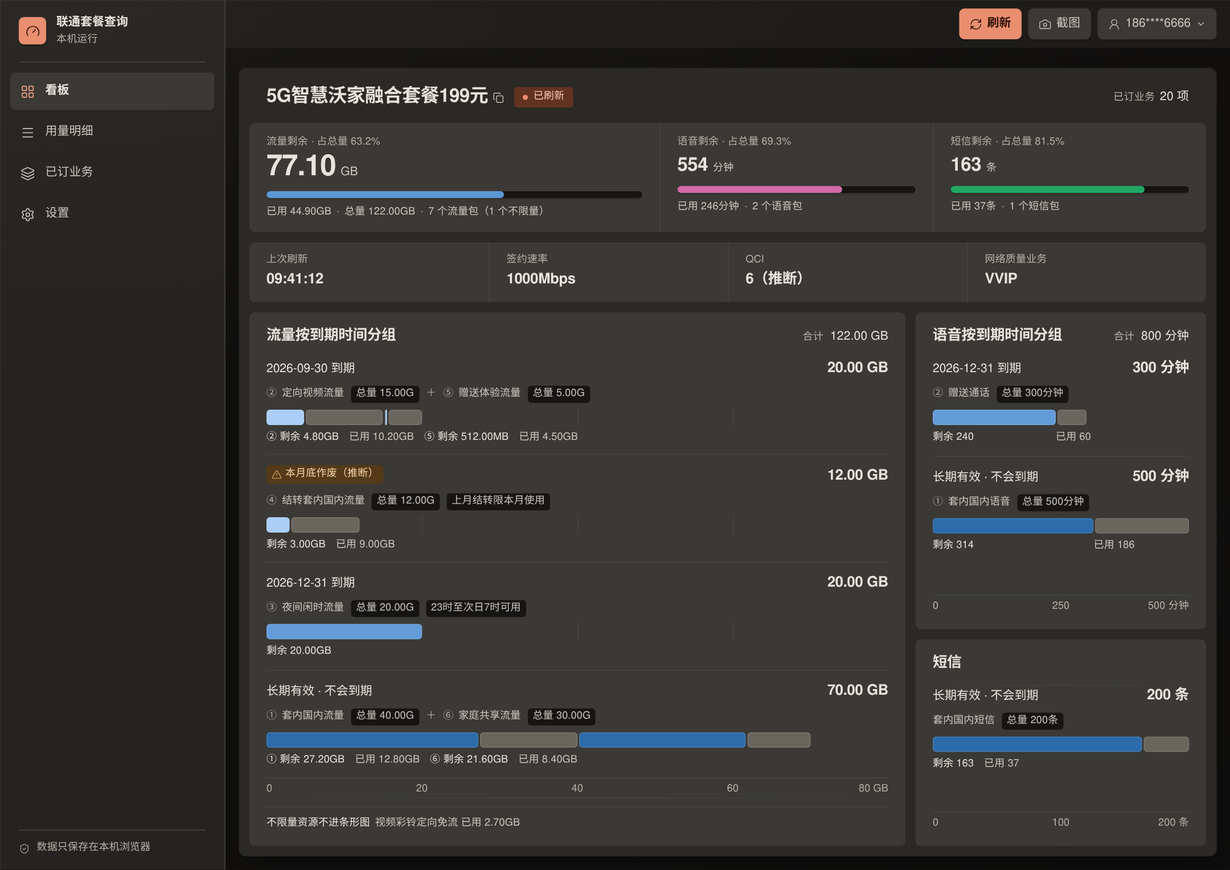
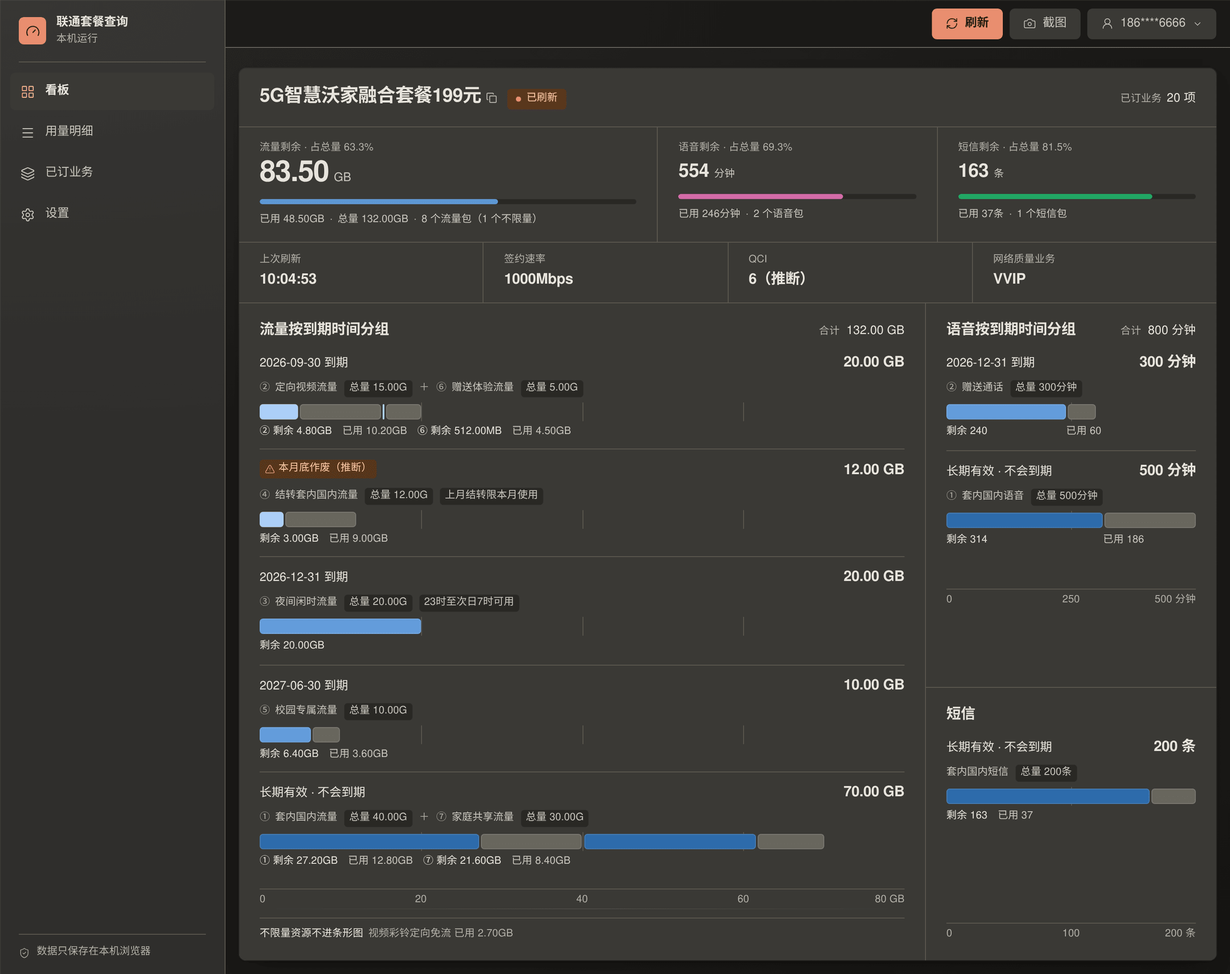
docs: rewrite the hero and re-verify the documentation
Replace the hero collage — a light desktop shot butted against a dark
phone — with a composed 1600×700 banner: brand block on the left, three
stepped browser windows on the right bleeding off the frame, occluded
ones veiled in the canvas colour so depth reads as atmospheric
perspective. Light and dark variants for the picture swap.

Retake every screenshot from the deployed build, with viewports grown
until the page card stops overflowing so each shot shows the whole card.

Correct the documentation against the code. Most of it still described
the design that the surface-model change replaced: nested 6px cards on
paper stock, a four-level surface ladder whose tray token no longer
exists, a main region "stretched" to a height that is actually a floor,
and a top bar whose hairline was said to fade in when it is there at
rest and only deepens on scroll. Contracted rate takes one candidate per
rate-bearing service, not three fixed sources. The reconciliation
behaviour was written as one rule when it is two: the overview withholds
its bar and percentage and flags the mismatch, while the lanes clamp.

Test counts, the project-structure trees and the service group names now
match what is actually there.

diff --git a/README.md b/README.md
@@ -3,7 +3,11 @@
 <a href="README.md"><img src="https://img.shields.io/badge/English-4C96FF?style=for-the-badge&logoColor=white" alt="English"></a>
 <a href="README.zh-CN.md"><img src="https://img.shields.io/badge/%E7%AE%80%E4%BD%93%E4%B8%AD%E6%96%87-6B7280?style=for-the-badge&logoColor=white" alt="简体中文"></a>
 
-<img src="public/logo.svg" alt="" width="96" height="96">
+<picture>
+  <source media="(prefers-color-scheme: dark)" srcset="docs/screenshots/hero-dark.png" />
+  <source media="(prefers-color-scheme: light)" srcset="docs/screenshots/hero-light.png" />
+  <img src="docs/screenshots/hero-light.png" alt="联通套餐查询 — plan balances grouped by expiry date, so you can see which block is written off at the end of the month" width="880" />
+</picture>
 
 # Unicom Usage Panel
 
@@ -20,9 +24,7 @@ Data, voice and SMS balances grouped by expiry date, plus contracted rate, QCI a
 
 [Quick start](#quick-start) · [Architecture](#architecture) · [Tech stack](#tech-stack) · [Backend notes](server/README.md) · [API & privacy](docs/api-and-privacy.md)
 
-<img src="docs/screenshots/hero.png" alt="The 看板 route side by side in both themes: on the left, a 1440px desktop window in the light theme with the sidebar listing 看板, 用量明细, 已订业务 and 设置, three balance figures with proportion bars, four fact tiles, and data and voice grouped into expiry lanes; on the right, the same page in a phone-width window in the dark theme, ending at the bottom tab bar">
-
-<sub>Fabricated sample data. Every number, package name and phone number in the screenshots is made up — no real account was queried.</sub>
+<sub>Fabricated sample data throughout. Every number, package name and phone number in the hero and the screenshots is made up — no real account was queried.</sub>
 
 </div>
 
@@ -32,7 +34,7 @@ Data, voice and SMS balances grouped by expiry date, plus contracted rate, QCI a
 
 ## What it is
 
-You log in with your China Unicom number, and the panel shows what is actually left in the plan. A sidebar splits that into four sections, each with its own URL:
+You log in with your China Unicom number, and the panel shows what is actually left in the plan. It is split into four sections, each with its own URL — a 264px sidebar from `lg:` up, a bottom tab bar below it:
 
 | Route | Section | What is on it |
 | --- | --- | --- |
@@ -41,17 +43,17 @@ You log in with your China Unicom number, and the panel shows what is actually l
 | `/services` | 已订业务 | The services currently active on the line, grouped by kind, with activation dates |
 | `/settings` | 设置 | Theme, auto-refresh, accounts, token copying, the privacy notice and build info |
 
-Routes are lazy-loaded and an unknown path redirects to 看板. Multiple accounts can be saved and switched, the view refreshes every 30 seconds, and the top bar's screenshot button captures the current section's card without a screen recorder.
+Each route is one card, and that card is the whole page — the sections inside it are separated by the rules the card draws, not by being cards themselves. Routes are lazy-loaded and an unknown path redirects to 看板. Multiple accounts can be saved and switched, the view refreshes every 30 seconds, and the top bar's screenshot button captures the current route's card without a screen recorder.
 
 Everything the app keeps lives in your browser's `localStorage`. The server persists nothing.
 
 <details>
-<summary><b>More screenshots</b> — the other three routes, the dark theme, the phone layout, login</summary>
+<summary><b>Screenshots</b> — all four routes, the dark theme, the phone layout, login</summary>
 
 <table>
   <tr>
     <td width="50%" align="center">
-      <img src="docs/screenshots/dashboard-light.png" alt="看板 in the light theme: the plan header, three balance figures with proportion bars, four fact tiles, and data, voice and SMS grouped into expiry lanes"><br>
+      <img src="docs/screenshots/dashboard-light.png" alt="看板 in the light theme: one card, its bands separated by full-bleed rules — the plan header, three balance figures with proportion bars, four fact tiles, then data, voice and SMS grouped into expiry lanes"><br>
       <sub>看板 · light</sub>
     </td>
     <td width="50%" align="center">
@@ -65,13 +67,13 @@ Everything the app keeps lives in your browser's `localStorage`. The server pers
       <sub>用量明细</sub>
     </td>
     <td width="50%" align="center">
-      <img src="docs/screenshots/services.png" alt="已订业务: twenty active services in two columns of groups — call features, network and rate, value-added, SMS, roaming, voice and a catch-all — each row with its activation date"><br>
+      <img src="docs/screenshots/services.png" alt="已订业务: twenty active services in a two-column seam grid — call features, network and rate, value-added, SMS, international and roaming, voice, and a catch-all spanning the last row — each entry with its activation date"><br>
       <sub>已订业务</sub>
     </td>
   </tr>
   <tr>
     <td width="50%" align="center">
-      <img src="docs/screenshots/settings.png" alt="设置: theme picker, auto-refresh controls, the saved-account list with a masked number, token copy buttons, and build branch, commit and time"><br>
+      <img src="docs/screenshots/settings.png" alt="设置: theme segmented control, auto-refresh controls, the saved-account list with a masked number, token copy buttons, and build branch and time"><br>
       <sub>设置 — note the disabled screenshot button</sub>
     </td>
     <td width="50%" align="center">
@@ -81,7 +83,7 @@ Everything the app keeps lives in your browser's `localStorage`. The server pers
   </tr>
   <tr>
     <td width="50%" align="center">
-      <img src="docs/screenshots/dashboard-mobile.png" alt="看板 on a 390px phone viewport: no sidebar, the sections stacked one per row, and a bottom tab bar carrying all four destinations" width="240"><br>
+      <img src="docs/screenshots/dashboard-mobile.png" alt="看板 on a 390px phone viewport: no sidebar, the bands stacked one per row, and a bottom tab bar carrying all four destinations" width="240"><br>
       <sub>Phone layout · 390&nbsp;px wide</sub>
     </td>
     <td width="50%" align="center"></td>
@@ -135,7 +137,7 @@ A phone number, an SMS code and a carrier session token are the keys to a mobile
 - The plan name is the card's own heading; tap it to copy `onlin_token`, long-press for `ecs_token`. Connection status and the active-service count sit on the same line
 - Throttling detected by its own service ID `50027` and surfaced as a badge in that line
 - Data, voice and SMS each get a balance figure, the share of the total it represents, and one proportion bar. The section with a denominator goes first and owns the screen's single 34px figure
-- Where remaining and used do not add up to the total the carrier reported, the percentage and the bar are withheld and the row says so — the figures are still printed, because those are what the carrier returned
+- Where remaining and used do not add up to the total the carrier reported, the percentage and the bar are both withheld and the tile is flagged 数字对不上 — the figures are still printed, because those are what the carrier returned
 - Last refresh, contracted rate, QCI and network-quality tier as four fact tiles, each carrying its reasoning in a tooltip
 - Data, voice and SMS grouped into expiry lanes: one lane per expiry date, ordered by urgency, bars drawn on a shared absolute scale
 - Carried-over packs are flagged `本月底作废（推断）`, an inference labelled as one
@@ -152,7 +154,7 @@ A phone number, an SMS code and a carrier session token are the keys to a mobile
 
 **已订业务** (`/services`)
 
-- Every service currently active on the line with its activation date, grouped by kind (network and rate, voice, SMS, call features, value-added, international and roaming) plus an 其他业务 catch-all, so a service with an unrecognised ID is never dropped
+- Every service currently active on the line with its activation date, grouped by kind — 网络与速率, 语音, 短信, 通话功能, 增值与提醒, 国际与漫游 — plus an 其他业务 catch-all, so a service with an unrecognised ID is never dropped
 - Grouping keys on the service ID first and falls back to keywords in the service name; groups are ordered by size, with the catch-all last
 - The active count and the network-quality tier are printed above the groups; an empty list and a list the carrier never returned are two different empty states, with different wording
 
@@ -173,15 +175,19 @@ A phone number, an SMS code and a carrier session token are the keys to a mobile
 
 **UI**
 
-- A console shell: a 264px sidebar of four `RouterLink`s marking the current route with `aria-current="page"`, and a sticky top bar. From `lg:` up the shell is locked to one screen height and the main region owns the scroll; below that the document scrolls and the top bar fades in its surface, hairline and blur over the first 160px
+- A console shell: a 264px sidebar of four `RouterLink`s marking the current route with `aria-current="page"`, and a sticky top bar. From `lg:` up the shell is locked to one screen height and the main region owns the scroll; below that the document scrolls
 - **The top bar carries controls only** — refresh, screenshot, account — and no page title. Each route sets `document.title` and a visually-hidden `<h1>`, so the page still has a name and a heading outline
-- **Phones navigate with a bottom tab bar**, not a hamburger drawer: four destinations fit, so all four are one tap away and there is no dialog to trap focus in
+- The top bar is the canvas colour with a resting hairline rule and a soft falloff. Below `lg:` it deepens as you scroll, ramping its own fill, that rule and an 18px backdrop blur over the first 160px; above `lg:` it sits outside the scroll container, so the ramp stays at zero and the bar is simply a translucent shell surface
+- **Phones navigate with a bottom tab bar**, not a hamburger drawer: four destinations fit, so all four are one tap away and there is no dialog to trap focus in. The sidebar and the tab bar read the same `NAV_ITEMS` array, so the two cannot drift
 - One primary action in the top bar. Refresh is the only filled button; screenshot and the account menu are quiet icon buttons. Theme, pause, add/remove account, privacy and build info all live in 设置
-- One card per route, identical on all four: same top, same left, same width, stretched to the full height of the main region. Inside it, every region is a nested 6px card on paper stock — grouping comes from surface and spacing, not from a border around each box
-- Sibling regions in a row share a bottom edge. A region that would overflow scrolls inside itself instead of making the row taller, and announces that it is scrolling with a shading gradient, a tab stop and a Chinese `aria-label`
-- A warm neutral surface ladder — canvas, tray, panel, sunken — with a terracotta accent that is reserved for brand and controls. Data colours are separate: an ordinal blue ramp for expiry urgency and a fixed three-slot categorical set for data / voice / SMS, neither of which touches the red / amber / green the status scale owns
-- Closed sets everywhere: five type steps (12 / 14 / 17 / 22 / 34), two font weights, ten text colours, four radii. Design tokens live in `src/assets/base.css` and are mapped to Tailwind colour names in `src/assets/main.css`; no `.vue` file may write a raw colour value
-- [`docs/ui-guidelines.md`](docs/ui-guidelines.md) is the contract every `.vue` file follows, and `tests/uiContract.test.js` asserts the measurable parts of it in a real DOM — contrast at the worst point of the canvas gradient, the step between any two adjacent surfaces, the type and weight sets, the router shape, the tab bar, the absence of a title in the top bar, the 44px touch floor and the reduced-motion rule
+- **One surface model.** Each route is a single card, and the regions inside it carry no fill, no border, no radius and no shadow — the card draws the full-bleed rules between its bands itself, so the number of rules is its child count minus one. Nested cards are gone and with them the tray token `--ui-surface`, which was deleted rather than left unused. Chips, progress tracks, inputs, segmented-control troughs and the semantic containers keep their fills; only true overlays — the account menu, the toast and both dialogs — are elevated. The reasoning is Material 3's own definition of a card as a single contained unit whose internal separator is a divider, not another card
+- Three kinds of boundary, each with one job: the card's own `divide-y` for the full-bleed rules between bands, a 1px seam grid (`.ui-seams`) for the gaps between side-by-side regions, and an indented `border-t` for rows inside a list or table. Across the four routes that comes to seven full-bleed rules, registered one by one in the contract's `CARD_BANDS` table
+- The card is the same rectangle on all four routes — same top, same left, same width — and the main region's height is its **floor**, not its ceiling, so a short page pads inside the card while the expiry charts keep their axis instead of being cropped
+- Sibling regions in a row share a bottom edge, because seam-grid cells stretch by default. A region that would overflow scrolls inside itself instead of making the row taller, and announces that it is scrolling with a shading gradient, a tab stop and a Chinese `aria-label`
+- **A convergence layer.** Thirteen recurring shapes have exactly one home each — ten components (`AppCard`, `AppSection`, `StatusChip`, `SegmentedControl`, `AccountList`, `ProgressTrack`, `DialogHeader`, `TextField`, `SkeletonSection`, `SectionNote`) and three class recipes in [`src/utils/ui.js`](src/utils/ui.js) (the heading row and its single horizontal inset, the header title size, the button base and its five variants). Before the pass, 22 `.vue` files held 229 distinct multi-token class strings, 43 of them repeated verbatim across files; after it, 196 and 22. `tests/uiContract.test.js` fails the moment a pattern grows a second home
+- A warm off-white canvas in Claude's manner, one step up to the card surface and one step down to the inline fills — two tones and a fill, no ladder — with a coral/terracotta brand colour reserved for brand and controls. Data has its own validated sets: an ordinal single-hue ramp for expiry urgency, a three-slot categorical palette keyed to resource kind, and a warm neutral for spent. **The brand colour is deliberately not a data colour**
+- Closed sets everywhere: five type steps (12 / 14 / 17 / 22 / 34), two font weights, ten text colours, radii of 8 / 6 / 4 plus a true circle. Design tokens live in `src/assets/base.css` and are mapped to Tailwind colour names in `src/assets/main.css`; no `.vue` file may write a raw colour value
+- [`docs/ui-guidelines.md`](docs/ui-guidelines.md) is the contract every `.vue` file follows, and `tests/uiContract.test.js` asserts the measurable parts of it in a real DOM — contrast at the worst point of the canvas gradient, the step between any two adjacent surfaces, the closed type / weight / colour sets, one home per pattern, "nothing inside the card is a card", the band count, the single horizontal inset, the router shape, the tab bar, the absence of a title in the top bar, the 44px touch floor and the reduced-motion rule
 - One shared dismissal primitive (`useDismissable`) backs every overlay: outside pointerdown, Escape on the document's capture phase, focus leaving the panel, and a route change — plus focus returned to the trigger
 - Chart geometry transitions only when the data changes and never loops; under `prefers-reduced-motion: reduce` it drops to 1ms and the two sweeping animations (skeleton, unmetered bar) stop
 - In-app privacy modal rendered from `docs/api-and-privacy.md`, so the docs and the UI cannot drift apart
@@ -208,7 +214,7 @@ Not yet verified end to end: SMS send and SMS login. Direct probes of `/mobileSe
 Other limits worth knowing:
 
 - `ECS1500 / type=4` is face verification. The carrier's page calls native `faceV3Detect` capabilities that a browser cannot execute, so the UI says so plainly instead of silently downgrading to a weaker check.
-- The rate on screen is the highest of three *contracted* values the carrier reports — the plan's signed rate, the ordered-service rate ceiling and the downlink peaks written into service names. None of them is a speed test, and none of them participates in the QCI decision.
+- The rate on screen is the highest of every *contracted* value the carrier reports — the plan's signed rate, the ordered-service rate ceiling, and a downlink peak for each active service whose name spells one out. Every source and its own value are listed in the tile's tooltip, so the figure can be checked line by line. None of them is a speed test, and none of them participates in the QCI decision.
 - A service counts as active only when the carrier's `servicestate` says so: the numeric `"1"`, or — for response shapes that report text instead — a Chinese status that is not one of the retired / expired / not-yet-effective ones. A cancelled network-quality subscription therefore no longer inflates the QCI.
 - QCI is inferred from the subscribed-service list unless the carrier returns an explicit number; inferred values carry the `（推断）` label. With no service list at all the field reads `未确认`, and a failed request leaves it at `—`.
 - `本月底作废（推断）` is inferred too, from the phrase `上月结转限本月使用` inside the resource name — the carrier returns no field for it. Reword that phrase upstream and the pack falls back to plain expiry-date grouping; the panel never pretends to know.
@@ -224,8 +230,8 @@ The app polls the current balance and stores nothing. There is no history to plo
 | Chart | Form | Question it answers |
 | --- | --- | --- |
 | Expiry lanes ([`ExpiryLanes.vue`](src/components/ExpiryLanes.vue)) | One lane per expiry date; bar length is the absolute allowance, on a shared ruler that starts at 0 | What expires when, and how much of it is still there |
-| Overview bars ([`DashboardHero.vue`](src/components/DashboardHero.vue)) | One 8px bar per resource kind | How much of data, voice, SMS is left against its own limit |
-| Remaining-share bars ([`ResourceTable.vue`](src/components/ResourceTable.vue)) | One bar per row | Which pack is nearly gone |
+| Overview bars ([`DashboardHero.vue`](src/components/DashboardHero.vue)) | One 6px [`ProgressTrack`](src/components/ProgressTrack.vue) per resource kind, in that kind's categorical colour | How much of data, voice, SMS is left against its own limit |
+| Remaining-share bars ([`ResourceTable.vue`](src/components/ResourceTable.vue)) | The same `ProgressTrack`, one per row | Which pack is nearly gone |
 
 Lanes are ordered by urgency: this month (including the inferred carried-over pack) → a dated expiry, soonest first → long-lived → expiry unknown. The upper bound of the shared ruler is snapped to a number a human reads — 80 GB, 500 minutes — never 78.13 GB. Within a lane, each pack is drawn as a remaining segment in the expiry colour followed by a used segment in a neutral grey, and every segment gets a printed figure next to it, so no reading depends on matching a colour by eye.
 
@@ -233,7 +239,7 @@ Four correctness properties are visible on screen rather than papered over:
 
 - **An unmetered bucket has no denominator**, so it is excluded from every proportion chart. On 看板 it becomes a footnote carrying the absolute used figure; in 用量明细 it gets an indeterminate sweeping bar and the word `不限量` instead of a percentage.
 - **A row whose ratio the carrier did not report draws no bar.** An empty track is the honest rendering; the percentage cell reads `—`.
-- **Remaining + used ≠ total is never smoothed over.** The bar is clamped so it cannot run past the ruler, the percentage is dropped rather than computed from the clamp, and a line under the lane names the packs that do not reconcile.
+- **Remaining + used ≠ total is never smoothed over.** On 看板 the overview drops both the percentage and the bar for that resource and flags the tile 数字对不上; in the expiry lanes the bar is clamped so it cannot run past the ruler and a line under the lane names the packs that do not reconcile. Either way the percentage is dropped rather than computed from the clamp, and the carrier's own figures are printed unchanged.
 - **An inferred conclusion is labelled as inferred and carries its reasoning** — `6（推断）`, `本月底作废（推断）` — in a tooltip that states what it was derived from.
 
 A separate 本月消耗去向 dot plot existed briefly and was removed as redundant: every lane already draws a used segment and prints its own used figure, so the dot plot restated the same numbers a second way on the same screen.
@@ -388,7 +394,7 @@ Terminate HTTPS in front of both the page and the API, and put real access contr
 2. **Publish** — both images for `linux/amd64` and `linux/arm64`, pushed to Docker Hub as `unicomvue-web` and `unicomvue-api`.
 3. **Release** — `v*` tags only. A GitHub Release with auto-generated notes and the deployment files attached.
 
-A push to `main` publishes the `main` tag; a `v1.2.3` git tag publishes the image tags `v1.2.3`, `1.2.3`, `1.2`, `1` and `latest`, so `IMAGE_TAG` accepts either the git tag or the bare version. **`latest` moves on tags only, never on a branch push**, because `docker compose pull` resolves `latest` by default and a deployer who never pinned a tag should land on the last release rather than on the tip of a branch.
+A push to `main` publishes the `main` tag; a `v1.2.3` git tag publishes the image tags `v1.2.3`, `1.2.3`, `1.2`, `1` and `latest`, so `IMAGE_TAG` accepts either the git tag or the bare version. **`latest` moves on tags only, never on a branch push**, because `docker compose pull` resolves `latest` by default and a deployer who never pinned a tag should land on the last release rather than on the tip of a branch. `v1.0.0` is the current release, so `latest` and `v1.0.0` are the same images today.
 
 Forking? Add two repository secrets under **Settings → Secrets and variables → Actions**:
 
@@ -559,14 +565,20 @@ Open an [issue](https://github.com/yatotm/unicomvue/issues) with the scenario, t
 │   ├── router/               four routes under one layout, lazy-loaded, unknown paths redirect
 │   ├── views/                AppLayout (the shell) + DashboardView, UsageView,
 │   │                         ServicesView, SettingsView
-│   ├── components/           sidebar, top bar, bottom tab bar; the page card, its panels,
-│   │                         expiry lanes, resource tables, service groups, chips and
-│   │                         empty notes; login dialog, account menu, privacy modal, toast
+│   ├── components/           shell — AppSidebar, AppTopBar, AppTabBar;
+│   │                         the convergence layer — AppCard, AppSection, PageHeader,
+│   │                         AppButton, StatusChip, SegmentedControl, AccountList,
+│   │                         ProgressTrack, SectionNote, SkeletonSection, TextField,
+│   │                         DialogHeader, EmptyNote, NoticeTag, DataChip;
+│   │                         content — DashboardHero, ExpiryLanes, ResourceTable,
+│   │                         ServiceSection, DashboardSkeleton, ThemeSelector;
+│   │                         overlays — LoginDialog, AccountMenu, PrivacyModal, AppToast
 │   ├── composables/          login flow, accounts, theme, screenshot, carrier verification,
 │   │                         toast, privacy, overlay dismissal, scroll lock, header surface
 │   ├── domain/               account, usage and subscribed-service normalization (pure functions)
-│   ├── utils/                usageBuckets.js (the expiry-grouped display model), usageNames.js,
-│   │                         chartScale.js, navigation.js, paneOverflow.js, dashboardContext.js
+│   ├── utils/                ui.js (the shared class recipes), usageBuckets.js (the
+│   │                         expiry-grouped display model), usageNames.js, chartScale.js,
+│   │                         navigation.js, paneOverflow.js, dashboardContext.js
 │   ├── services/             HTTP client, localStorage access
 │   └── config/               API endpoints, storage keys, refresh interval, captcha script
 ├── server/                   Fastify gateway (pnpm workspace package)
@@ -599,11 +611,11 @@ pnpm run lint                          # oxlint --deny-warnings, then eslint --c
 pnpm run lint:fix
 ```
 
-`pnpm test` currently runs 154 frontend cases and 88 gateway cases, 242 in total, all passing.
+`pnpm test` currently runs 158 frontend cases and 88 gateway cases, 246 in total, all passing.
 
-Server suites cover config loading and port validation, real local HTTP slow-responses and error statuses, cookie/token extraction, response shaping and both field whitelists, the active-service rule, downlink-rate parsing, rate limiting, captcha binding, origin checks and log redaction — `normalize.test.js` alone carries 30 cases and `routes.test.js` 23. Frontend suites cover the Vite dev proxy, `localStorage` access, account retention, usage and QCI normalization, the multi-source contracted rate, subscribed-service grouping, the expiry-bucket model, the login flow, carrier verification, screenshot sharing, scroll lock and the header scroll surface. Two files carry most of the weight: `uiContract.test.js` with 55 cases and `usageBuckets.test.js` with 31. No test sends a real SMS.
+Server suites cover config loading and port validation, real local HTTP slow-responses and error statuses, cookie/token extraction, response shaping and both field whitelists, the active-service rule, downlink-rate parsing, rate limiting, captcha binding, origin checks and log redaction — `normalize.test.js` alone carries 30 cases and `routes.test.js` 23. Frontend suites cover the Vite dev proxy, `localStorage` access, account retention, usage and QCI normalization, the multi-source contracted rate, subscribed-service grouping, the expiry-bucket model, the login flow, carrier verification, screenshot sharing, scroll lock and the header scroll surface. Two files carry most of the weight: `uiContract.test.js` with 59 cases and `usageBuckets.test.js` with 31. No test sends a real SMS.
 
-The UI contract runs against a real DOM and asserts the measurable half of [`docs/ui-guidelines.md`](docs/ui-guidelines.md): contrast at the worst point of the canvas gradient, the minimum step between any two adjacent surfaces, the ordinal expiry ramp, the five-step type scale and the two-weight rule, the closed set of text colours, the router shape, the bottom tab bar, the absence of a page title in the top bar, the 44px touch floor, the single dismissal primitive, and the rule that an inferred value must say it is inferred.
+The UI contract runs against a real DOM and asserts the measurable half of [`docs/ui-guidelines.md`](docs/ui-guidelines.md): contrast at the worst point of the canvas gradient, the minimum step between any two adjacent surfaces, the ordinal expiry ramp, the five-step type scale and the two-weight rule, the closed set of text colours, the router shape, the bottom tab bar, the absence of a page title in the top bar, the 44px touch floor, the single dismissal primitive, and the rule that an inferred value must say it is inferred. Four of them guard the surface model and the convergence layer specifically: every recurring pattern has exactly one home, nothing inside the page card is itself a card, the full-bleed rules are counted against a registry rather than accumulated, and `--ui-surface` turns the suite red if it comes back.
 
 Two scripts talk to the real network, both opt-in:
 

diff --git a/server/README.md b/server/README.md
@@ -225,4 +225,4 @@ pnpm --filter unicom-server test
 
 共 88 个用例，覆盖配置加载、端口校验、真实本地 HTTP 慢响应和错误状态、Cookie Token 提取、响应整形与两套字段白名单、业务清单的在用判定、业务名速率解析、限流、验证码绑定、来源检查与敏感日志；其中 `test/normalize.test.js` 一个文件就有 30 个用例，`test/routes.test.js` 有 23 个。
 
-根目录 `pnpm test` 会连同前端的 154 个用例一并运行（合计 242 个），额外覆盖 Vite 开发代理、`localStorage` 读写、账号保留、余量与 QCI 归一化、签约速率的多来源取值、已订业务分组、到期分组的展示模型、登录流程、运营商验证、截图分享、滚动锁定、页头滚动表面与界面契约。测试不会发送真实短信。
+根目录 `pnpm test` 会连同前端的 158 个用例一并运行（合计 246 个），额外覆盖 Vite 开发代理、`localStorage` 读写、账号保留、余量与 QCI 归一化、签约速率的多来源取值、已订业务分组、到期分组的展示模型、登录流程、运营商验证、截图分享、滚动锁定、页头滚动表面与界面契约。测试不会发送真实短信。
